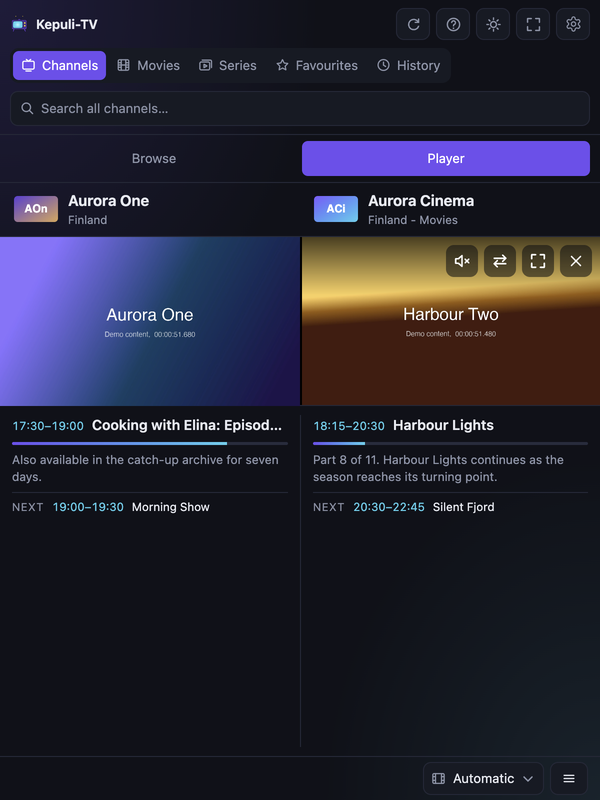
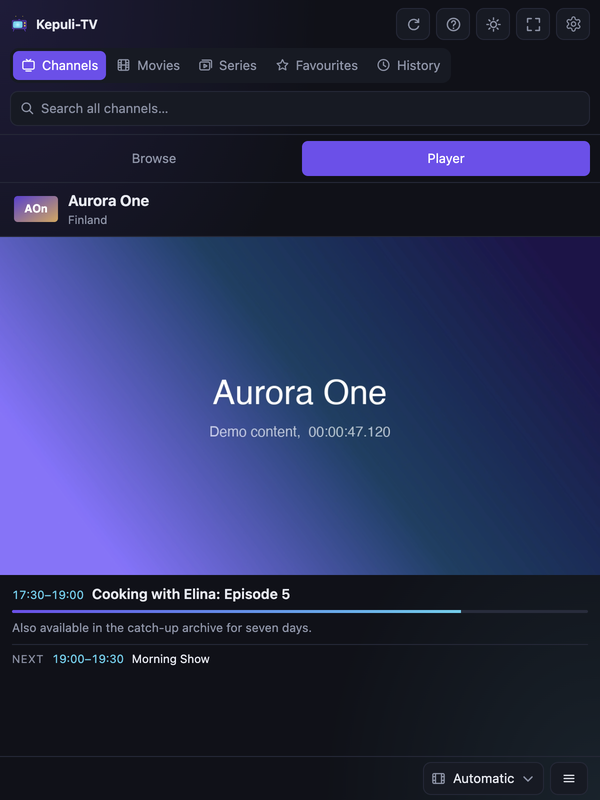
The second picture is not offered on a phone
Two pictures side by side on a phone are a stamp each, and its one pane is
the player or the list, not both; nobody had tried it there either. In a
window 600 px wide or less, or on a touch screen that low (a phone held
sideways), the second picture is neither offered nor spoken of: not in the
row's menu, the player's menu, the hint or Settings. A tablet has it. The
narrow view's reference pictures are of one channel again.

In Firefox a click on the second picture pauses it, as it does the first:
its controls keep the click to themselves, and the scenario's check of it
is Chrome's. The scenario also lets go of its streams before it reloads,
as Firefox keeps the page it leaves, and its stream, alive for a while and
the new page's channel was refused on the account of one connection.

Claude-Session: https://claude.ai/code/session_011jsMnu9xQB1gHrK5qZugQB

diff --git a/js/secondui.js b/js/secondui.js
@@ -68,8 +68,18 @@ export const secondShowing = () => Boolean(showing);
 const isShown = (item) => Boolean(showing && item && item.k === 0 && String(item.id) === String(showing.item.id)
   && (store.accountKey(showing.config) === store.accountKey(state.config) || store.sameServer(showing.config, state.config)));
 
+// A phone has no room for two pictures: side by side each would be a
+// stamp, and its one pane is the player or the list, not both. So there
+// the second picture is not offered at all, nor spoken of: not in the
+// row's menu, the ☰ menu, the hint or Settings. A window 600 px wide or
+// less, as the narrow layout has it (js/playerlayout.js), or a touch
+// screen that low, which is a phone held sideways. A tablet has it.
+const PHONE = '(max-width: 600px), (pointer: coarse) and (max-height: 600px)';
+/** Whether the screen has room for a second picture. */
+export const roomForSecond = () => !matchMedia(PHONE).matches;
+
 /** The accounts a second picture can come from now. */
-const sources = () => store.secondAccounts(state.config, state.account?.maxConnections, state.accounts || []);
+const sources = () => (roomForSecond() ? store.secondAccounts(state.config, state.account?.maxConnections, state.accounts || []) : []);
 
 /** Whether a channel of the list may be played beside the one playing. */
 export function secondOffered(item) {
@@ -303,7 +313,9 @@ $('second-close').addEventListener('click', closeSecond);
 // its connection and filling its buffer unseen. Stopped before the
 // browser's controls see it; the strip at the bottom, where their own
 // buttons are, is left to them, pause included. In a real run a second
-// picture paused this way sat still for eleven minutes of thirty.
+// picture paused this way sat still for eleven minutes of thirty. In
+// Chrome: Firefox's controls keep the click to themselves, as they do on
+// the first picture, and a click there pauses either.
 const CONTROL_BAR_PX = 80;
 pane.addEventListener('click', (e) => {
   if (e.target !== video || e.button !== 0 || e.offsetY > video.clientHeight - CONTROL_BAR_PX) return;
@@ -344,7 +356,7 @@ retry.addEventListener('click', () => {
  * which a hidden item never told anyone.
  */
 export function renderSecondItem() {
-  menuItem.hidden = !showing && !state.playing;
+  menuItem.hidden = !showing && !(state.playing && roomForSecond());
   const key = showing ? 'second.close' : 'second.open';
   const label = menuItem.querySelector('span');
   label.dataset.i18n = key;

diff --git a/js/setupui.js b/js/setupui.js
@@ -31,7 +31,7 @@ import { THEMES, renderTheme, resolveTheme } from './theme.js';
 import { renderAccountList } from './accountsui.js';
 import { hasAccess, requestAccess, requestAccessFor } from './permissions.js';
 import { toast } from './toast.js';
-import { secondAvailable } from './secondui.js';
+import { roomForSecond, secondAvailable } from './secondui.js';
 import { wireModal } from './modal.js';
 import * as store from './config.js';
 import { accountAddress, adoptAccount, connect, offerLists, refreshRows, renderSidebar, resetting, same, startReset, state } from './state.js';
@@ -595,7 +595,7 @@ export async function renderAccountBox() {
   ];
   // What the connections come to for the second picture, for every kind
   // of account: beside the figure it follows from, where there is one.
-  rows.push([t('second.info'), t(secondAvailable() ? 'second.info.yes' : 'second.info.no')]);
+  if (roomForSecond()) rows.push([t('second.info'), t(secondAvailable() ? 'second.info.yes' : 'second.info.no')]);
   for (const [label, value] of rows) {
     const cell = document.createElement('div');
     cell.append(label, document.createElement('br'));

diff --git a/docs/user-guide.md b/docs/user-guide.md
@@ -440,6 +440,9 @@ interrupted channel-list load restores the previous list.
   with an archive has the rest in the programme guide
 - **Side by side**: a second picture, another live channel beside the one playing, the two
   side by side in the picture's box and in full screen (`js/secondui.js`).
+  Not on a phone, where two pictures would each be a stamp: in a window
+  600 px wide or less, or on a touch screen that low, it is neither offered
+  nor mentioned. A tablet has it.
   It is opened from a channel's row menu (⋯, or a right click): **Play
   alongside**. It takes a connection of its own, so the item is
   there only when one is to be had. When the subscription's details say the
@@ -457,7 +460,8 @@ interrupted channel-list load restores the previous list.
   which moves the sound to it and mutes the first; unmuting the first moves
   it back, and the second picture's own controls (volume, pause, picture in
   picture) work as the first one's do; a click on the picture itself does
-  not pause it, as it does not pause a live channel in the first. The two arrows beside the speaker swap the
+  not pause it in Chrome, as it does not pause a live channel in the first
+  (Firefox's own controls take the click on either). The two arrows beside the speaker swap the
   pictures' sides, with their halves of the title bar and the details;
   both go on playing as they were. The four corners beside them
   take both pictures full screen, side by side, as `f` and a double click
